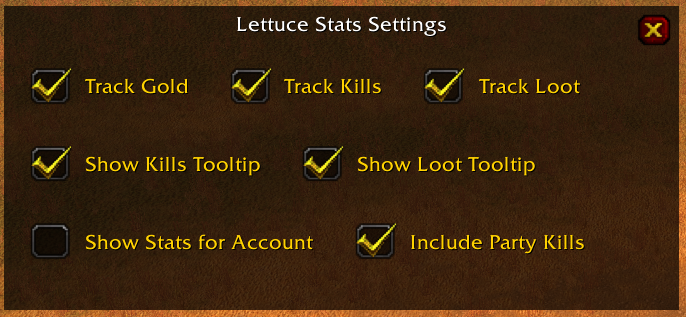
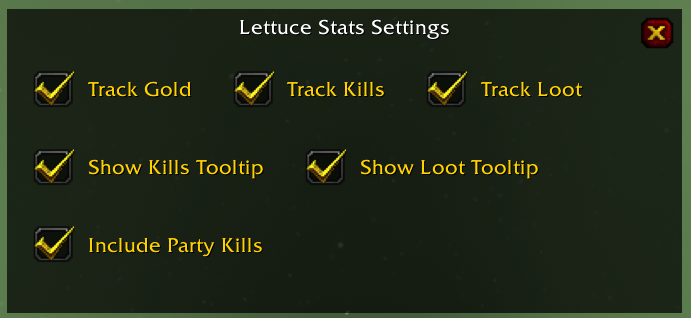
Add Session Stats (#1)

diff --git a/README.md b/README.md
@@ -12,7 +12,7 @@ To open the main window, enter a slash command in chat with `/lettucestats` or s
 
 ![Main Window](README_IMAGES/MainWindow.png)
 
-This show basic totals for all gold collected, total number of kills, and total number of items collected. The 3 buttons on the bottom will open more detailed stat windows for the respective stats.<br>
+This show basic totals for all gold collected, total number of kills, total number of items collected, and the current session time. The dropdown at the top allows you to view stats for your current character, your entire account, or the current session. The 3 buttons on the bottom will open more detailed stat windows for each category<br>
 The gear in the top left will open the addon settings
 
 ### Gold Window
@@ -66,7 +66,5 @@ There are the following settings:
     - Enables the tooltip that shows up on enemies to display the kill counts
 - Show Loot Tooltip
     - Enables the tooltip that shows up on items to display the collect counts
-- Show Stats for Account
-    - Enables to show stats for the entire account, not just the current character
 - Include Party Kills
     - Enables the tracking of all kills in the party, not just personal or pet kills
